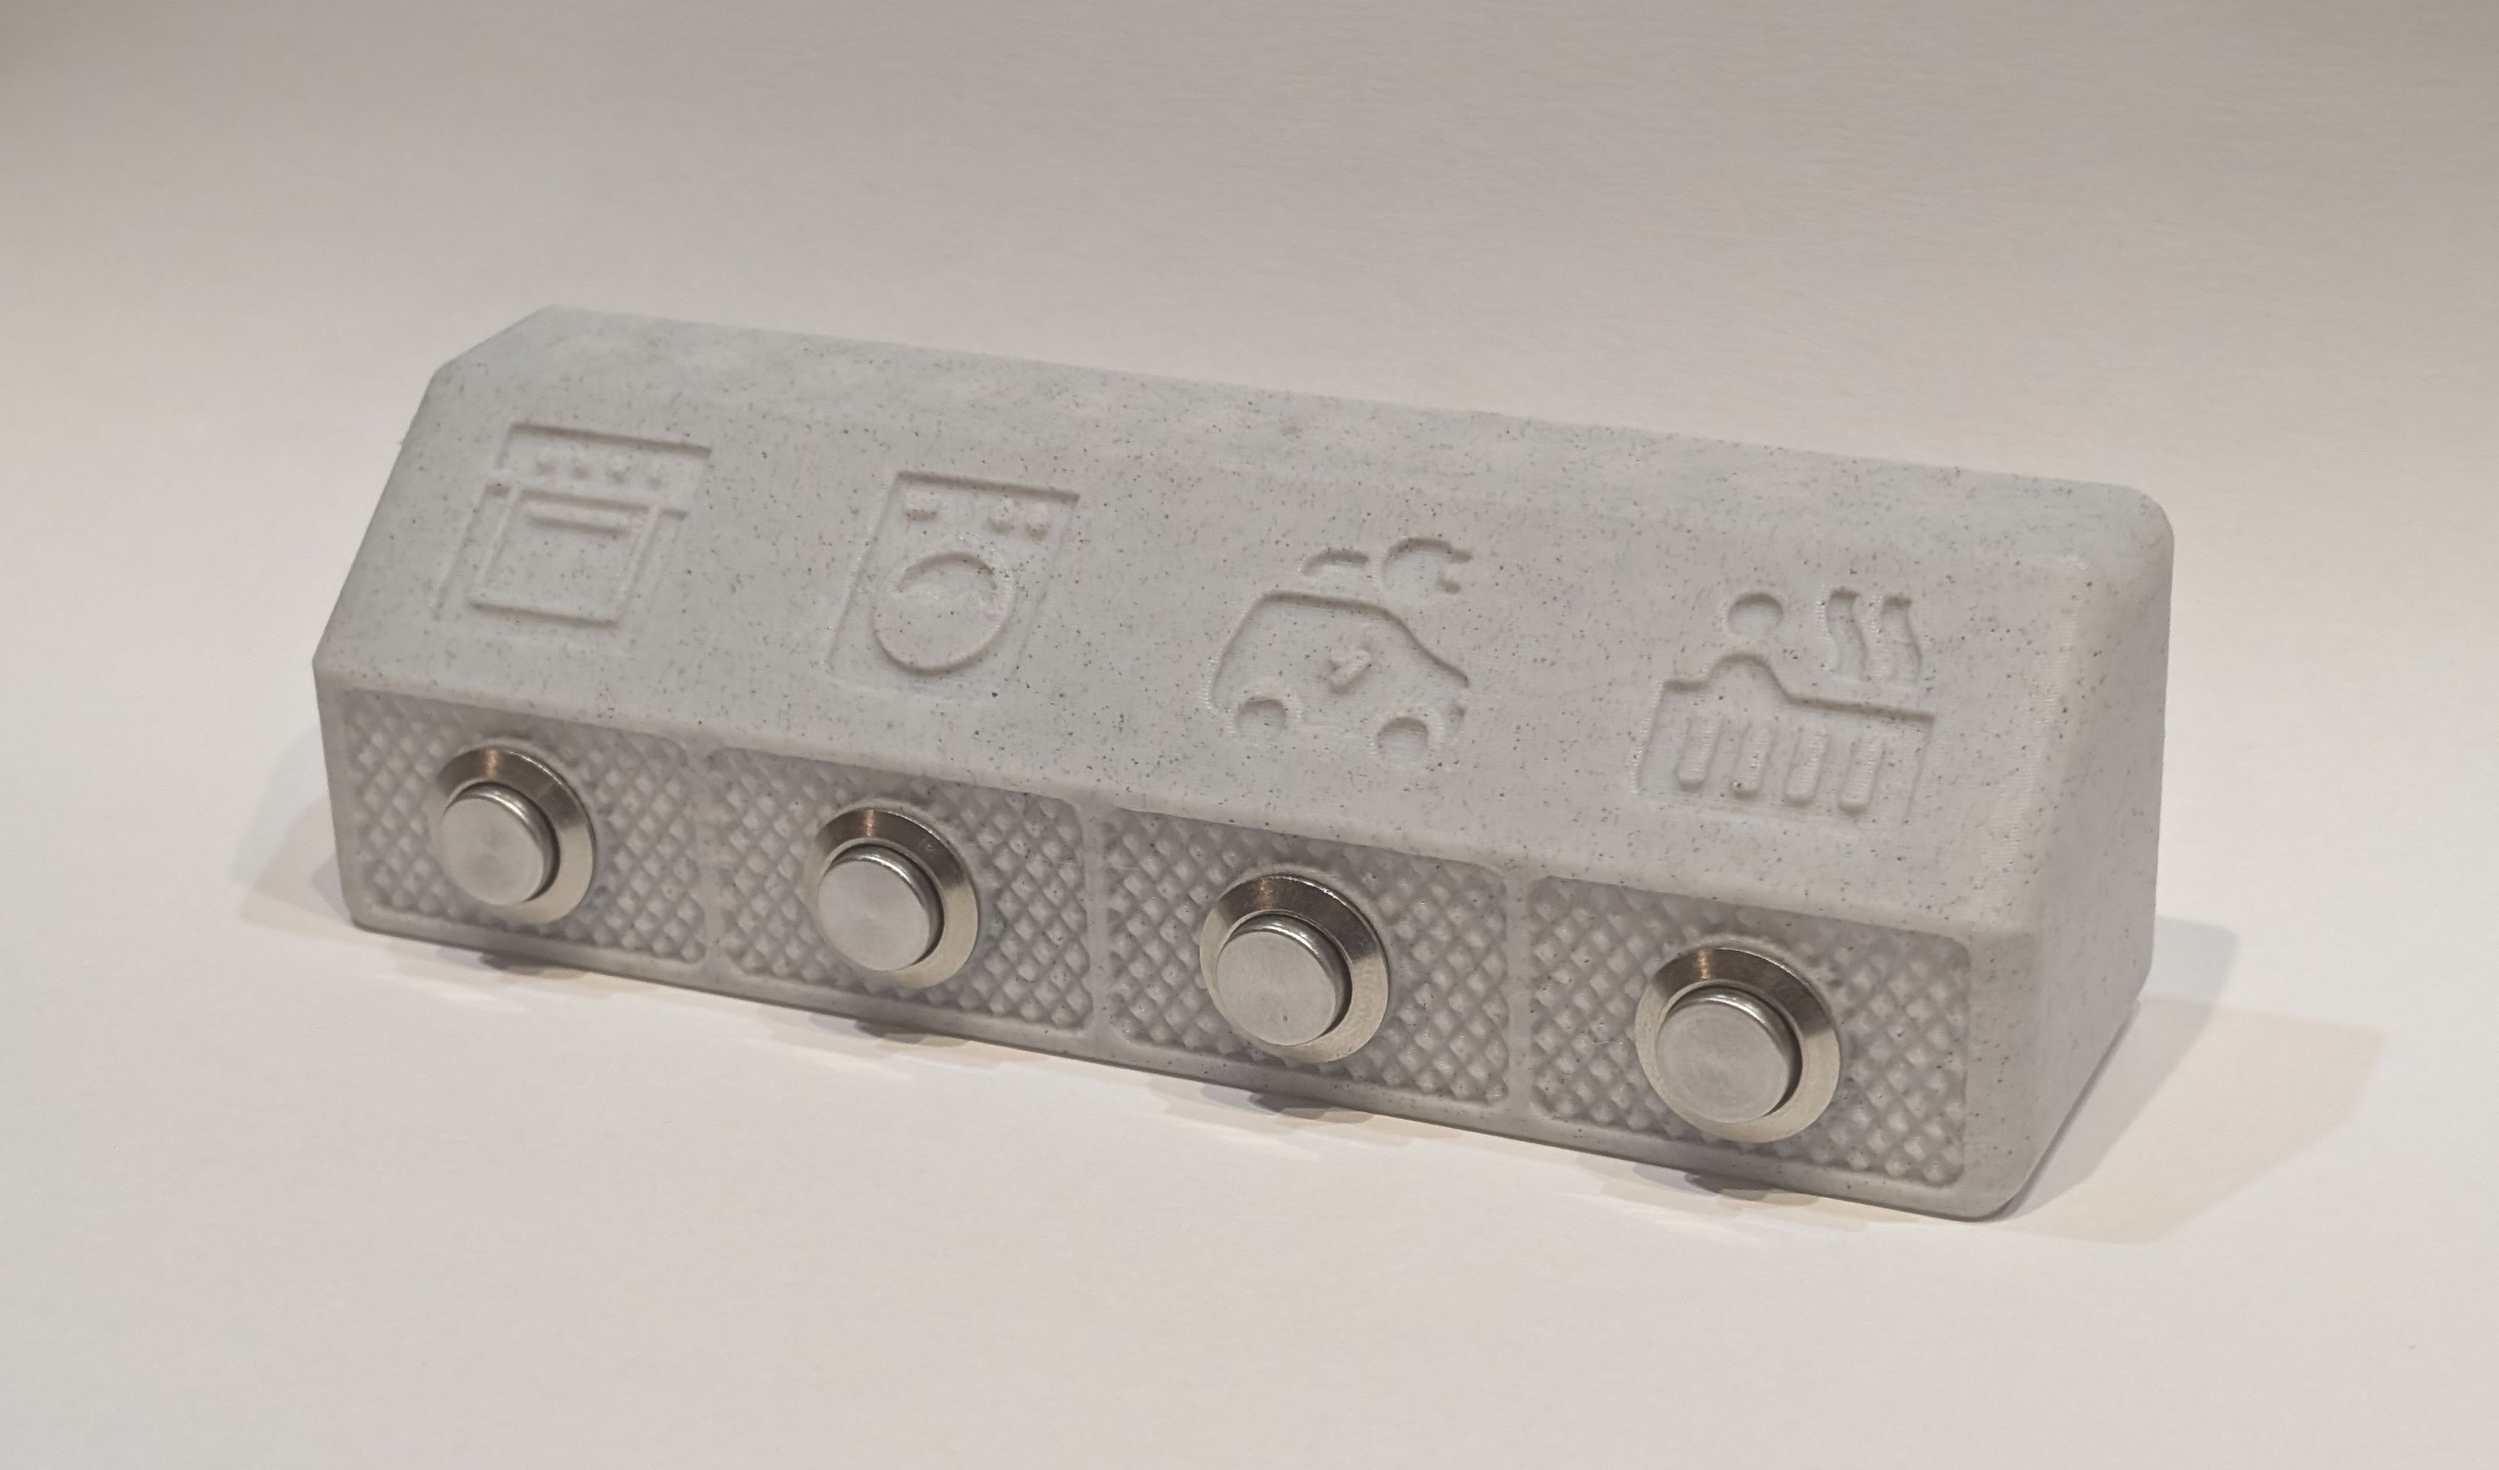
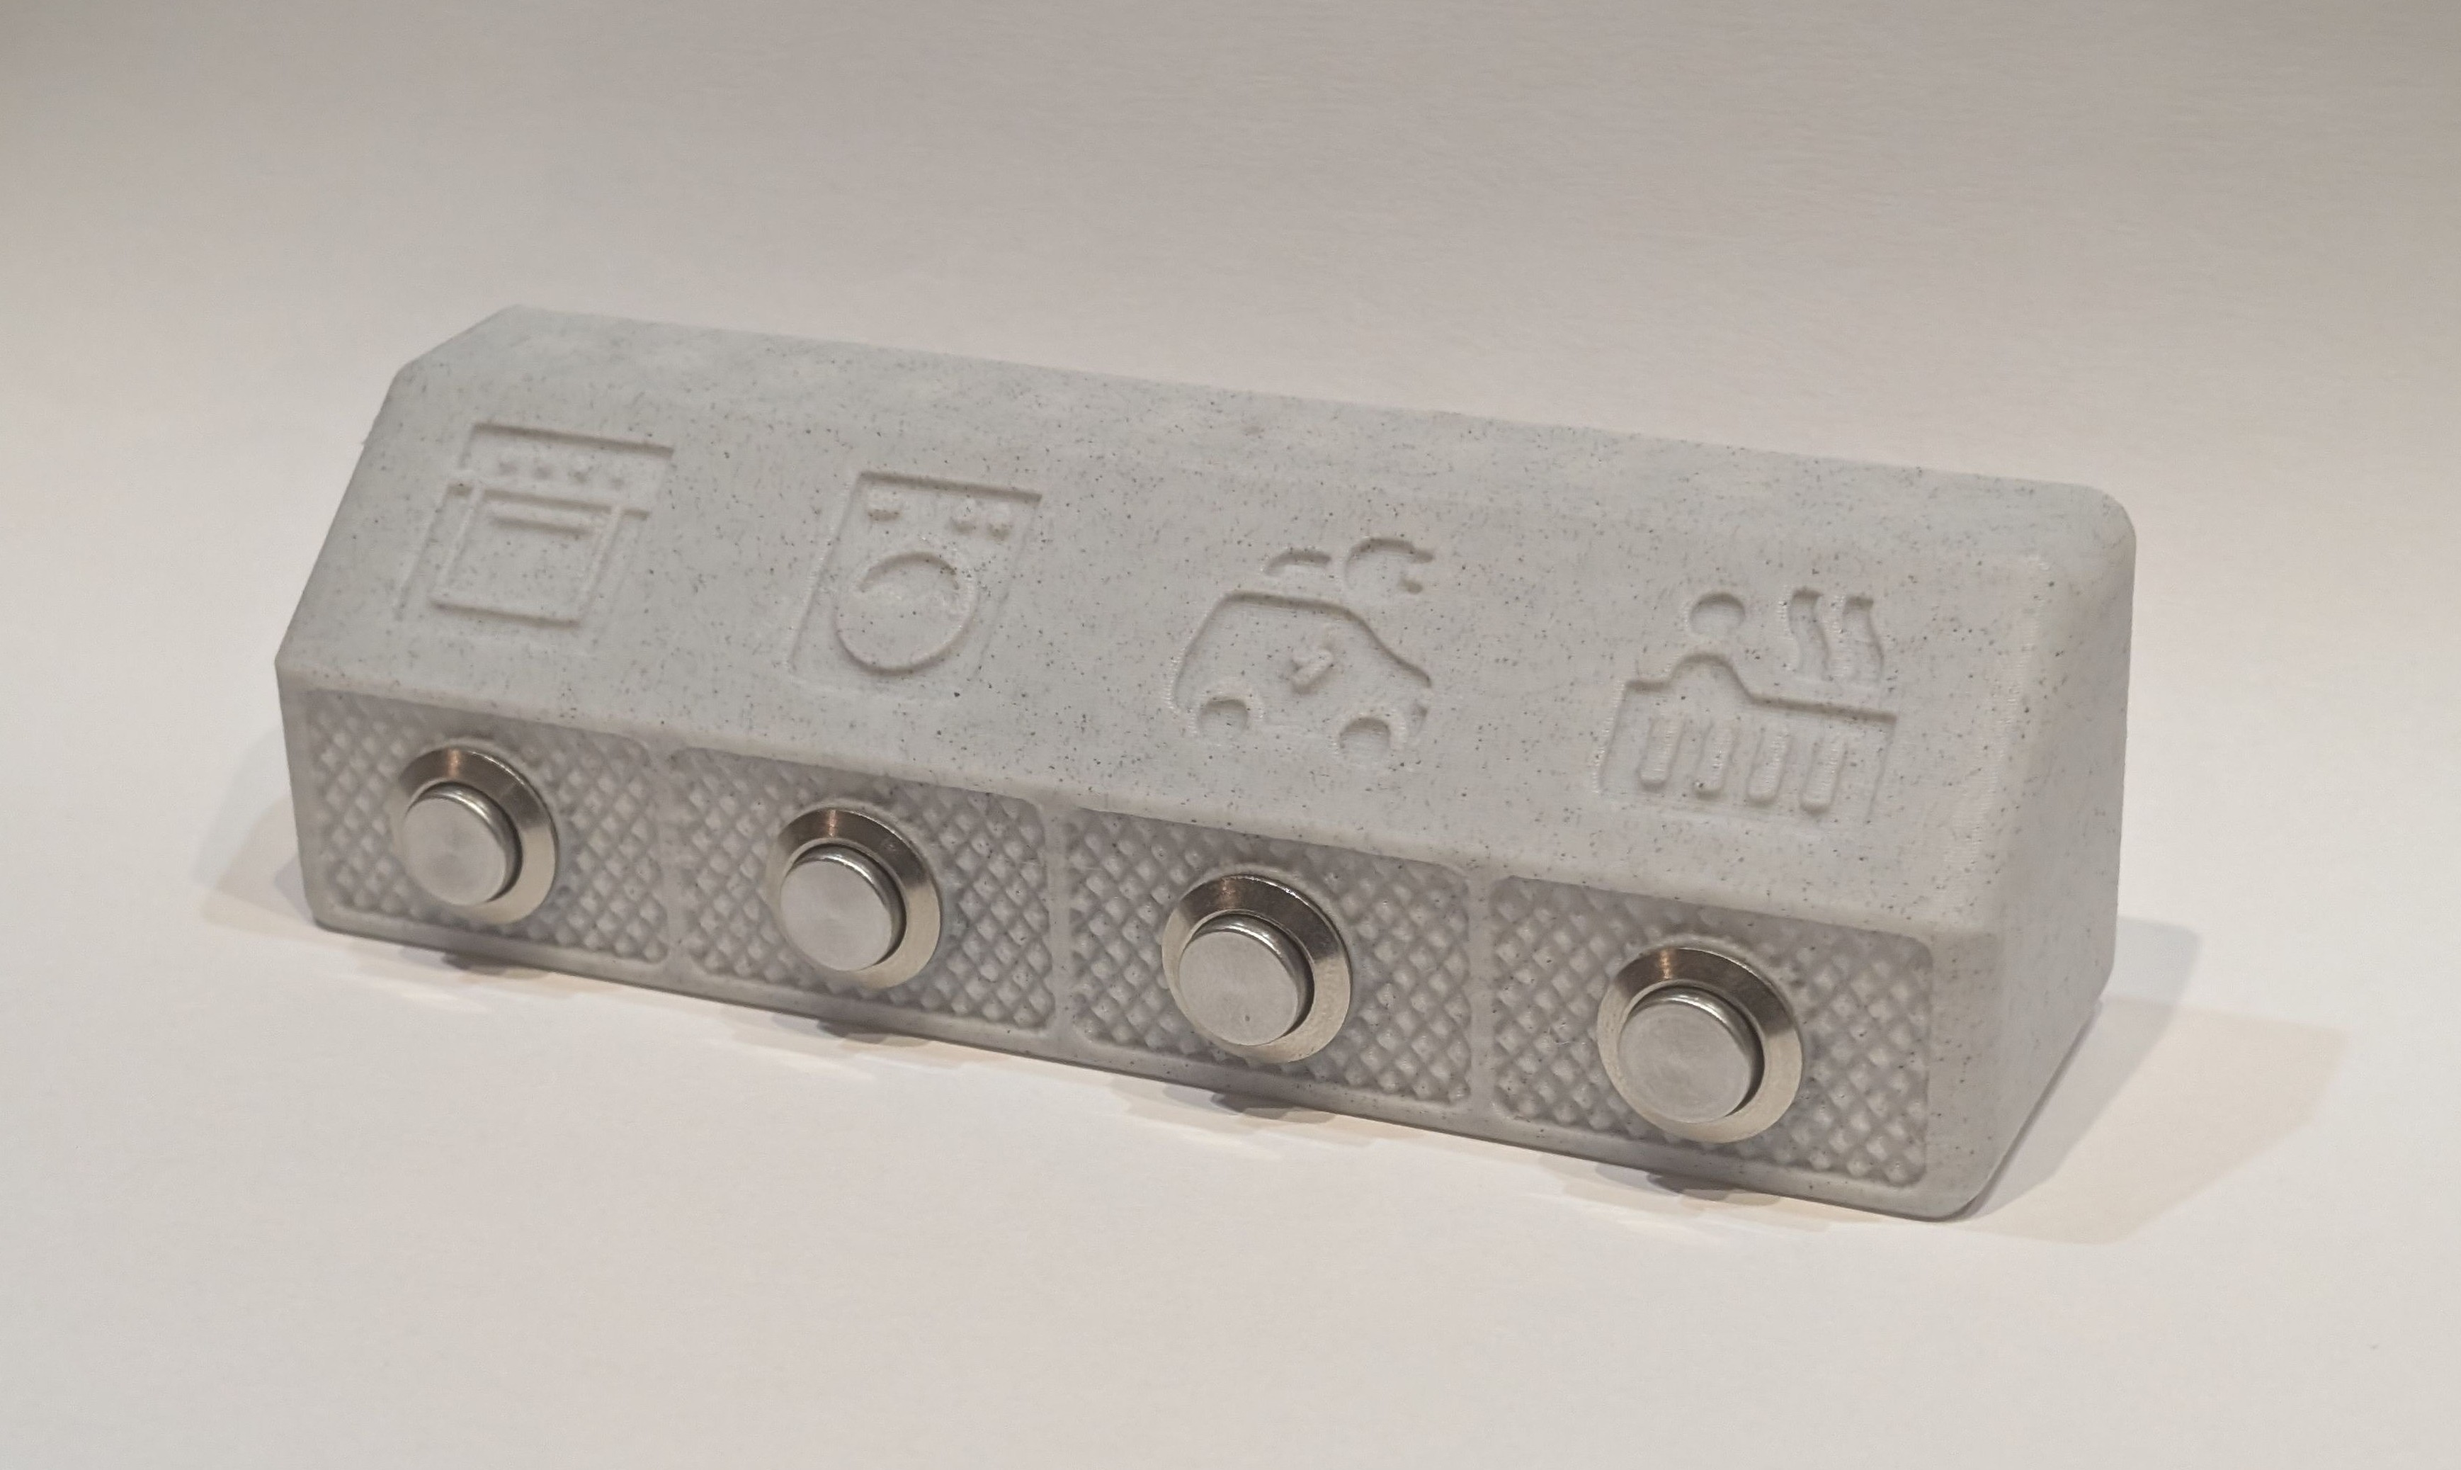
Mise à jour des projets
Reformulations et ajout de détails supplémentaires

diff --git a/projects/projet-04.js b/projects/projet-04.js
@@ -3,17 +3,18 @@ ajouterProjet({
   date: "2026-08",
   contexte: "Projet personnel",
   image: "images/Traqueur/affichage_energie.gif",
-  tags: ["C/C++ (ESP32)", "CAO", "Impression 3D", "API", "Électronique"],
+  tags: ["C/C++ (ESP32)", "CAO", "Impression 3D", "API", "Électronique", "IHM"],
   description: [
     "Ce boîtier permet de suivre la production solaire de la maison et de savoir, d'un coup d'œil, quels appareils essentiels (voiture électrique, lave-linge, etc.) peuvent être utilisés avec l'énergie disponible.",
     { image: "images/Traqueur/affichage_energie.gif", legende: "Affichage de l'énergie disponible pour la voiture électrique.", taille: 70 },
     "L'appareil propose deux modes. Le premier affiche l'énergie disponible, appareil par appareil. Le second gère les notifications par utilisateur : sur demande, il prévient la bonne personne quand brancher et débrancher un appareil. Chaque utilisateur est associé à une couleur.",
-    { image: "images/Traqueur/activation_notification.gif", legende: "Mise en marche des notifications de l'utilisateur bleu pour la machine à laver.", taille: 70 },
+    { image: "images/Traqueur/activation_notification.gif", legende: "Mise en marche des notifications de \"l'utilisateur bleu\" pour la machine à laver.", taille: 70 },
     "Le boîtier alerte aussi l'administrateur lorsque le disjoncteur des panneaux s'enclenche, lorsque le programme subit des erreurs récurrentes, ou lorsqu'il serait plus rentable d'attendre les heures creuses plutôt que de consommer sur le réseau.",
+    { image: "images/Traqueur/notification.png", legende: "Exemple d'une notification reçue.", taille: 70 },
     "Le programme dépasse 1500 lignes de C++. Il fait communiquer l'ESP32 avec plusieurs services : les serveurs d'Enphase Energy (pour obtenir un jeton d'authentification), la passerelle solaire locale de l'installation (pour obtenir les données énergétiques), l'API des tarifs Tempo, l'API de messagerie WhatsApp et un serveur NTP (Network Time Protocol).",
     "Pour limiter sa consommation, l'ESP32 passe en veille profonde entre chaque requête et pendant la nuit. Il se réveille à intervalle régulier ou par appui sur un bouton.",
     "Sa consommation moyenne reste ainsi inférieure à 2 mW.",
     "Le boîtier a été conçu en CAO puis imprimé en 3D.",
-    { image: "images/Traqueur/boitier.jpg", legende: "Photo du boîtier.", taille: 70 }
+    { image: "images/Traqueur/boitier.jpg", legende: "Photo du boîtier.", taille: 80 }
   ]
 });

diff --git a/projects/projet-01.js b/projects/projet-01.js
@@ -3,12 +3,14 @@ ajouterProjet({
   date: "2025-07",
   contexte: "Projet académique",
   image: "images/Accouplement/photo_assemblee.jpg",
-  tags: ["CAO", "Simulation magnétique", "Acquisition de données", "C/C++ (Arduino)", "Python", "Impression 3D"],
+  tags: ["CAO", "Simulation magnétique","Étude bibliographique", "Acquisition de données", "C/C++ (Arduino)", "Python", "Impression 3D", "Découpe laser"],
   description: [
     "Un accouplement magnétique transmet un couple d'un arbre à un autre sans aucun contact mécanique : des aimants, positionnés sur chaque arbre, interagissent pour transmettre l'effort. Ce projet couvrait toute la démarche, du dimensionnement d'un tel système jusqu'à sa validation expérimentale.",
     { image: "images/Accouplement/photo_desassemblee.jpg", legende: "Accouplement magnétique partiellement démonté.", taille: 70 },
     "Le travail a débuté par une étude bibliographique des configurations et architectures existantes, suivie de la modélisation 3D du système. J'ai ensuite étudié le comportement magnétique de l'accouplement par simulation et par une étude théorique.",
-    "Un prototype a été fabriqué, en partie par impression 3D. Différents capteurs, reliés à une carte Arduino et exploités sous Python, ont permis d'acquérir les données et de les confronter aux résultats théoriques.",
-    { image: "images/Accouplement/acquisition.jpg", legende: "Banc d'acquisition de données.", taille: 70 }
+    "Un prototype a été fabriqué, principalement par impression 3D. Différents capteurs, reliés à une carte Arduino et exploités sous Python, ont permis d'acquérir les données et de les confronter aux résultats théoriques.",
+    { image: "images/Accouplement/acquisition.jpg", legende: "Banc d'acquisition de données.", taille: 70 },
+    "Après avoir caractérisé mes pièces mobiles (inertie, coefficients de frottement sec et visqueux) et mes aimants (moment magnétique), j'ai comparé simulation, calcul et mesures : les trois sont en accord.",
+    { image: "images/Accouplement/simulation.png", legende: "Simulation 2D de l'accouplement magnétique.", taille: 70 },
   ]
 });

diff --git a/projects/projet-03.js b/projects/projet-03.js
@@ -8,7 +8,7 @@ ajouterProjet({
     "Je voulais comprendre comment une IA de jeu choisit son prochain coup. Plutôt que de m'en tenir à la théorie, j'en ai construit une : un Puissance 4 complet, jouable à la souris, face à un adversaire rapide et difficile à battre.",
     "L'IA repose sur un algorithme minimax. À chaque tour, elle simule ses coups possibles, les réponses de l'adversaire, puis ses propres réponses, jusqu'à une profondeur limitée, et retient le meilleur coup.",
     "Un élagage alpha-bêta écarte les branches qui ne peuvent plus changer la décision. L'IA explore ainsi plus loin dans le même temps, d'où sa rapidité.",
-    "Plusieurs modes de jeu sont disponibles. Ils rendent l'IA moins performante en réduisant sa profondeur de calcul et en simplifiant sa fonction d'évaluation heuristique. Les modes les plus faciles affichent même les alignements dangereux, comme ci-dessous.",
-    { image: "images/Puissance_4/3_alignes.png", legende: "Partie en cours : le joueur affronte l'IA.", taille: 70 }
+    "Plusieurs modes de jeu sont disponibles. Ils rendent l'IA plus ou moins performante en réduisant sa profondeur de calcul et en simplifiant sa fonction d'évaluation heuristique. Les modes les plus faciles affichent même les alignements dangereux, comme ci-dessous.",
+    { image: "images/Puissance_4/3_alignes.png", legende: "Partie en cours : le joueur affronte l'IA en difficulté moyenne.", taille: 70 }
   ]
 });

diff --git a/projects/projet-02.js b/projects/projet-02.js
@@ -7,7 +7,7 @@ ajouterProjet({
   description: [
     "Je voulais apprendre à créer une interface graphique en Python. J'ai choisi un projet que je pouvais tester et améliorer facilement : un jeu de sudoku.",
     "Le programme génère lui-même ses grilles et vérifie que chacune n'admet qu'une seule solution. Le joueur saisit ses chiffres directement dans la grille. À tout moment, il peut demander un indice ou faire contrôler ce qu'il a déjà rempli.",
-    "Plusieurs niveaux de difficulté sont proposés. Ils règlent le nombre de cases déjà remplies au départ : plus la grille est vide, plus elle est difficile.",
+    "Plusieurs niveaux de difficulté sont proposés. Ils modifient le nombre de cases déjà remplies au départ : plus la grille est vide, plus elle est difficile.",
     { image: "images/Sudoku/choix-difficulte.png", legende: "Choix du niveau de difficulté.", taille: 70 },
     "",
     "Le fonctionnement est simple : une grille complète est d'abord générée en remplissant les cases une à une. Le programme tient à jour, pour chaque case vide, la liste des chiffres encore autorisés selon sa ligne, sa colonne et son bloc de 3×3. Il traite en priorité la case la plus contrainte (celle qui a le moins de choix possibles) et y place un chiffre tiré au hasard. Cette stratégie évite de se retrouver rapidement dans une impasse.",
